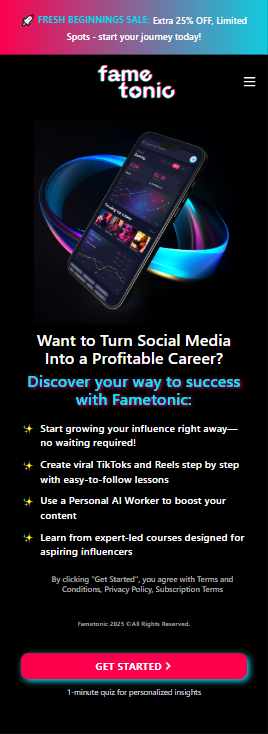
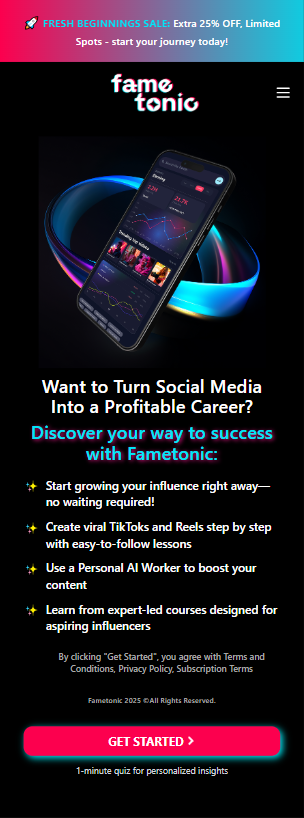
update Hero component footer spacing for improved layout consistency

diff --git a/src/lib/components/Hero.svelte b/src/lib/components/Hero.svelte
@@ -96,7 +96,7 @@
             Privacy Policy, Subscription Terms
           </p>
           <div
-            class="text-[10px] leading-[100%] font-[500] align-middle text-[#ABABAB] mt-[40px] mb-[40px] text-center"
+            class="text-[10px] leading-[100%] font-[500] align-middle text-[#ABABAB] mt-[30px] mb-[30px] text-center"
           >
             Fametonic 2025 ©All Rights Reserved.
           </div>
